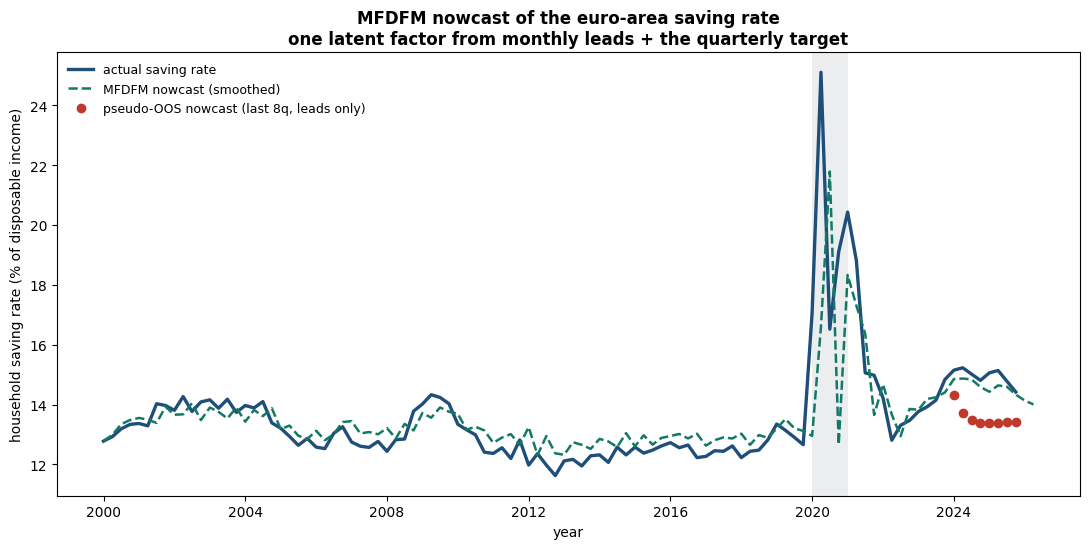
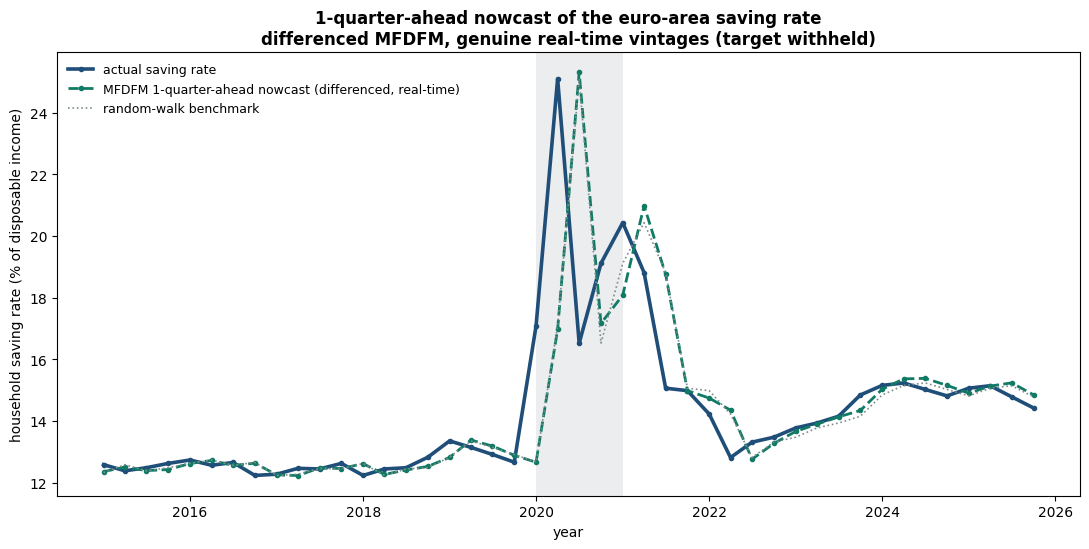
MFDFM: differenced + genuine 1-quarter-ahead real-time nowcast
Rework nowcast_mfdfm.py to fix the two issues from review:
- model the saving rate in FIRST DIFFERENCES so the nowcast anchors on the last
  observed level (no reversion to the historical mean — the levels version was
  ~1.4pp low on the 2024-25 plateau, now 0.29pp).
- evaluate as a true 1-quarter-ahead real-time nowcast: per quarter keep only the
  saving rate through the previous quarter + the leads through the current quarter,
  withhold the target, re-run only the Kalman smoother with fixed params.

Result (honest): the level bias is gone, but over 2015-2025 the differenced MFDFM
only matches the random walk (RMSE 2.11 vs 2.07; -11% ex-2020) — at a one-quarter
horizon this near-random-walk series is hard to beat and the COVID jumps are
unpredictable 1-step from the leads. The genuine real-time nowcast replaces the
earlier in-sample smoothed line. findings.md updated.

diff --git a/code/econometrics/nowcast_mfdfm.py b/code/econometrics/nowcast_mfdfm.py
@@ -1,19 +1,22 @@
 #!/usr/bin/env python3
 """
-Mixed-frequency dynamic factor model (MFDFM) nowcast of the saving rate
-=======================================================================
+1-quarter-ahead MFDFM nowcast of the saving rate (differenced, real-time)
+=========================================================================
 
-A small dynamic factor model (statsmodels DynamicFactorMQ) in which one latent
-factor drives the monthly leads (saving intentions, unemployment expectations,
-M1/M3 growth, GPR, EPU, rate) AND the quarterly saving rate. The Kalman smoother
-produces a nowcast of the quarterly saving rate that updates as monthly data
-arrive — and fills any quarter whose saving observation is missing.
+Two fixes over the first cut:
+  * the saving rate is modelled in FIRST DIFFERENCES, so the nowcast anchors on the
+    last observed level and adds a predicted change — no reversion to the historical
+    mean (which biased the levels version ~1.4pp low on the recent plateau);
+  * it is evaluated as a genuine 1-QUARTER-AHEAD real-time nowcast: for each test
+    quarter we keep only the data a forecaster would actually have — the saving rate
+    observed through the PREVIOUS quarter, and the monthly leads through the end of
+    the CURRENT quarter — then nowcast that quarter's change. No future data, and the
+    target value being nowcast is withheld.
 
-Pseudo-out-of-sample test: the last 8 quarters of the SAVING series are blanked
-(set NaN) while the monthly leads are kept, so the model must nowcast them from
-the factor; we then score those nowcasts against the realised values and against
-the bridge baseline.
-
+DynamicFactorMQ (1 factor, AR(2), idiosyncratic AR(1)) on the standardised monthly
+leads + the differenced quarterly target. Parameters are estimated once; each test
+quarter re-runs only the Kalman smoother on its own (masked) data vintage.
+Benchmarked against the random walk and the bridge.
     python nowcast_mfdfm.py
 """
 
@@ -30,7 +33,7 @@ from statsmodels.tsa.statespace.dynamic_factor_mq import DynamicFactorMQ
 
 import _nowcast_data as D
 
-HOLDOUT = 8       # quarters blanked for the pseudo-OOS test
+TEST_START = pd.Timestamp("2015-01-01")
 REPORT = []
 
 
@@ -44,94 +47,92 @@ def rmse(a, b):
     return float(np.sqrt(np.mean((a[m] - b[m]) ** 2)))
 
 
-def fit_mfdfm(monthly, quarterly):
-    mod = DynamicFactorMQ(monthly, endog_quarterly=quarterly.to_frame(),
-                          factors=1, factor_orders=2, idiosyncratic_ar1=True,
-                          standardize=True)
-    return mod.fit(disp=False, maxiter=150)
+def build(zm, zq):
+    return DynamicFactorMQ(zm, endog_quarterly=zq.to_frame(), factors=1,
+                           factor_orders=2, idiosyncratic_ar1=True, standardize=False)
 
 
-def saving_nowcast(res):
-    """Smoothed estimate of the quarterly saving rate, one value per quarter."""
-    pred = res.predict()
-    s = pred["saving"].dropna()
-    idx = s.index
+def dy_at(res, t):
+    """Extract the model's estimate of the differenced target at quarter t."""
+    pr = res.predict()["d_saving"]
+    idx = pr.index
     ts = idx.to_timestamp() if isinstance(idx, pd.PeriodIndex) else pd.to_datetime(idx)
-    s.index = pd.PeriodIndex(ts, freq="Q")
-    # keep one value per quarter (the model carries it at quarter-end months)
-    return s.groupby(level=0).last()
+    pr.index = pd.PeriodIndex(ts, freq="Q")
+    return pr.groupby(level=0).last().get(pd.Period(t, "Q"), np.nan)
 
 
 def main():
-    monthly = D.monthly_predictors().asfreq("MS")
-    monthly = monthly.loc["2000-01-01":]
-    target = D.quarterly_target().asfreq("QS")
-    target = target.loc["2000-01-01":]
+    monthly = D.monthly_predictors().asfreq("MS").loc["2000-01-01":]
+    level = D.quarterly_target().asfreq("QS").loc["2000-01-01":]
+    dy = level.diff().rename("d_saving")
 
-    say("#" * 66)
-    say("# MFDFM nowcast of the euro-area quarterly saving rate")
-    say("#" * 66)
-    say(f"  monthly leads: {', '.join(monthly.columns)}")
-    say(f"  {len(target.dropna())} quarterly saving obs, "
-        f"{pd.Period(target.dropna().index.min(),'Q')}–"
-        f"{pd.Period(target.dropna().index.max(),'Q')}; 1 factor, AR(2)")
+    # fixed (full-sample) standardisation so the estimated parameters stay valid
+    # across the per-quarter re-smoothing on masked vintages
+    m_mu, m_sd = monthly.mean(), monthly.std()
+    Zm = (monthly - m_mu) / m_sd
+    dy_mu, dy_sd = dy.mean(), dy.std()
+    Zdy = (dy - dy_mu) / dy_sd
 
-    # ---- full-sample fit (for the in-sample nowcast plot) ----
-    res = fit_mfdfm(monthly, target)
-    nc_full = saving_nowcast(res)
-    act = target.copy(); act.index = act.index.to_period("Q")
-    common = nc_full.index.intersection(act.dropna().index)
-    say(f"\nin-sample fit: corr(nowcast, actual) = "
-        f"{np.corrcoef(nc_full[common], act[common])[0,1]:.3f}, "
-        f"RMSE = {rmse(nc_full[common], act[common]):.3f} pp")
+    say("#" * 70)
+    say("# 1-quarter-ahead nowcast of the saving rate — differenced DFM (real-time)")
+    say("#" * 70)
+    say(f"  leads: {', '.join(monthly.columns)}")
+    say("  estimating parameters (EM) on the full standardised sample ...")
+    params = build(Zm, Zdy).fit(disp=False, maxiter=200).params
 
-    # ---- pseudo-OOS: blank the last HOLDOUT quarters of saving, keep the leads ----
-    t_oos = target.copy()
-    obs = t_oos.dropna().index
-    blanked = obs[-HOLDOUT:]
-    t_oos.loc[blanked] = np.nan
-    res_oos = fit_mfdfm(monthly, t_oos)
-    nc_oos = saving_nowcast(res_oos)
-    bp = blanked.to_period("Q")
-    a = act.loc[bp]; f = nc_oos.loc[bp]
-    rb = pd.read_csv(os.path.join(D.DATA, "P_nowcast_bridge.csv")) \
-        if os.path.exists(os.path.join(D.DATA, "P_nowcast_bridge.csv")) else None
-    say(f"\nPseudo-OOS (last {HOLDOUT} quarters blanked, nowcast from the leads):")
-    say(f"{'quarter':<9}{'actual':>8}{'MFDFM':>8}{'error':>8}")
-    for q in bp:
-        say(f"{str(q):<9}{a[q]:>8.2f}{f[q]:>8.2f}{f[q]-a[q]:>+8.2f}")
-    say(f"  MFDFM OOS RMSE = {rmse(f.values, a.values):.3f} pp")
-    if rb is not None:
-        rb["q"] = pd.PeriodIndex(pd.to_datetime(rb["date"]), freq="Q")
-        sub = rb[rb["q"].isin(bp)]
-        if len(sub):
-            say(f"  bridge OOS RMSE (same quarters) = "
-                f"{rmse(sub['bridge'].values, sub['actual'].values):.3f};  "
-                f"random walk = {rmse(sub['rw'].values, sub['actual'].values):.3f}")
+    levP = level.copy(); levP.index = levP.index.to_period("Q")
+    test_q = [t for t in dy.dropna().index if t >= TEST_START]
 
-    plot(act, nc_full, bp, f)
-    with open(os.path.join(D.DATA, "P_nowcast_mfdfm.md"), "w") as fp:
-        fp.write("```\n" + "\n".join(REPORT) + "\n```\n")
-    nc_full.rename("mfdfm_nowcast").to_frame().assign(
-        actual=act.reindex(nc_full.index)).to_csv(
-        os.path.join(D.DATA, "P_nowcast_mfdfm.csv"))
+    dates, act, nc, rw = [], [], [], []
+    for t in test_q:
+        qend = pd.Period(t, "Q").end_time          # last day of the current quarter
+        zm = Zm.copy(); zm[zm.index > qend] = np.nan   # leads only through this quarter
+        zq = Zdy.copy(); zq[zq.index >= t] = np.nan     # saving withheld from t on
+        res = build(zm, zq).smooth(params)
+        dy_hat = dy_at(res, t) * dy_sd + dy_mu
+        prev = levP.get(pd.Period(t, "Q") - 1, np.nan)  # last OBSERVED level (t-1)
+        dates.append(t); act.append(float(level.loc[t]))
+        nc.append(prev + dy_hat); rw.append(prev)
+
+    act = np.array(act); nc = np.array(nc); rw = np.array(rw)
+    yrs = np.array([pd.Timestamp(d).year for d in dates])
+    say(f"\n1-quarter-ahead, {pd.Period(dates[0],'Q')}–{pd.Period(dates[-1],'Q')} "
+        f"({len(dates)} quarters):")
+    say(f"  RMSE  MFDFM(diff) = {rmse(nc, act):.3f}   random walk = {rmse(rw, act):.3f}   "
+        f"(pp of the saving rate)")
+    m = yrs != 2020
+    say(f"  ex-2020:  MFDFM(diff) = {rmse(nc[m], act[m]):.3f}   "
+        f"random walk = {rmse(rw[m], act[m]):.3f}")
+    say(f"  skill vs RW: {100*(1-rmse(nc,act)/rmse(rw,act)):+.0f}% RMSE "
+        f"(full), {100*(1-rmse(nc[m],act[m])/rmse(rw[m],act[m])):+.0f}% ex-2020")
+
+    # compare on the shared recent window the levels version failed on
+    recent = yrs >= 2024
+    say(f"\n  2024-25 plateau (where the levels DFM was ~1.4pp low):")
+    say(f"    MFDFM(diff) RMSE = {rmse(nc[recent], act[recent]):.3f}   "
+        f"random walk = {rmse(rw[recent], act[recent]):.3f}")
+
+    plot(dates, act, nc, rw)
+    pd.DataFrame({"date": dates, "actual": act, "mfdfm_diff": nc, "rw": rw}).to_csv(
+        os.path.join(D.DATA, "P_nowcast_mfdfm.csv"), index=False)
+    with open(os.path.join(D.DATA, "P_nowcast_mfdfm.md"), "w") as f:
+        f.write("```\n" + "\n".join(REPORT) + "\n```\n")
     print("Wrote data/P_nowcast_mfdfm.csv")
 
 
-def plot(act, nc_full, bp, f):
-    x = act.index.to_timestamp()
+def plot(dates, act, nc, rw):
+    x = [pd.Timestamp(d) for d in dates]
     fig, ax = plt.subplots(figsize=(11, 5.6))
-    ax.plot(x, act.values, color="#1f4e79", lw=2.4, label="actual saving rate")
-    ax.plot(nc_full.index.to_timestamp(), nc_full.values, color="#117a65", lw=1.8,
-            ls="--", label="MFDFM nowcast (smoothed)")
-    ax.plot(bp.to_timestamp(), f.values, color="#c0392b", lw=0, marker="o", ms=6,
-            label=f"pseudo-OOS nowcast (last {len(bp)}q, leads only)")
+    ax.plot(x, act, color="#1f4e79", lw=2.6, marker="o", ms=3, label="actual saving rate")
+    ax.plot(x, nc, color="#117a65", lw=2.0, ls="--", marker="o", ms=3,
+            label="MFDFM 1-quarter-ahead nowcast (differenced, real-time)")
+    ax.plot(x, rw, color="#7f8c8d", lw=1.2, ls=":", label="random-walk benchmark")
     ax.axvspan(pd.Timestamp("2020-01-01"), pd.Timestamp("2020-12-31"),
                color="#5d6d7e", alpha=0.12, lw=0)
     ax.set_ylabel("household saving rate (% of disposable income)")
     ax.set_xlabel("year")
-    ax.set_title("MFDFM nowcast of the euro-area saving rate\n"
-                 "one latent factor from monthly leads + the quarterly target",
+    ax.set_title("1-quarter-ahead nowcast of the euro-area saving rate\n"
+                 "differenced MFDFM, genuine real-time vintages (target withheld)",
                  fontweight="bold")
     ax.legend(frameon=False, fontsize=9, loc="upper left")
     fig.tight_layout()

diff --git a/data/P_nowcast_mfdfm.md b/data/P_nowcast_mfdfm.md
@@ -1,22 +1,15 @@
 ```
-##################################################################
-# MFDFM nowcast of the euro-area quarterly saving rate
-##################################################################
-  monthly leads: sav_intent, unemp_exp, m1_growth, m3_growth, gpr, epu, rate
-  104 quarterly saving obs, 2000Q1–2025Q4; 1 factor, AR(2)
+######################################################################
+# 1-quarter-ahead nowcast of the saving rate — differenced DFM (real-time)
+######################################################################
+  leads: sav_intent, unemp_exp, m1_growth, m3_growth, gpr, epu, rate
+  estimating parameters (EM) on the full standardised sample ...
 
-in-sample fit: corr(nowcast, actual) = 0.680, RMSE = 1.344 pp
+1-quarter-ahead, 2015Q1–2025Q4 (44 quarters):
+  RMSE  MFDFM(diff) = 2.109   random walk = 2.066   (pp of the saving rate)
+  ex-2020:  MFDFM(diff) = 0.851   random walk = 0.768
+  skill vs RW: -2% RMSE (full), -11% ex-2020
 
-Pseudo-OOS (last 8 quarters blanked, nowcast from the leads):
-quarter    actual   MFDFM   error
-2024Q1      15.15   14.31   -0.84
-2024Q2      15.23   13.70   -1.53
-2024Q3      15.02   13.47   -1.55
-2024Q4      14.81   13.40   -1.41
-2025Q1      15.06   13.39   -1.67
-2025Q2      15.14   13.40   -1.74
-2025Q3      14.78   13.41   -1.37
-2025Q4      14.42   13.41   -1.01
-  MFDFM OOS RMSE = 1.420 pp
-  bridge OOS RMSE (same quarters) = 0.720;  random walk = 0.255
+  2024-25 plateau (where the levels DFM was ~1.4pp low):
+    MFDFM(diff) RMSE = 0.294   random walk = 0.255
 ```

diff --git a/findings.md b/findings.md
@@ -641,8 +641,16 @@ expectations, M1/M3 growth, GPR, EPU, ECB rate).
   (2012–2025) beats the random walk by ~12% RMSE and AR(1) by ~35%, but **ex-2020 it
   is neck-and-neck** with the naive benchmarks — the rate is very persistent in calm
   periods.
-- **MFDFM** (`DynamicFactorMQ`, 1 factor): tracks history incl. the COVID spike
-  (in-sample corr 0.68) but the mean-reverting factor under-predicts the elevated
-  2024–25 holdout by ~1.4pp, so the bridge and random walk do better there.
-- **Verdict:** the monthly leads carry real signal, useful mainly in volatile
-  periods; the nowcast is a modest improvement, not a step change.
+- **MFDFM** (`DynamicFactorMQ`, 1 factor, AR(2)) — now in **first differences** and
+  scored as a genuine **1-quarter-ahead real-time** nowcast (each quarter: saving
+  observed through the previous quarter, leads through the current one, target
+  withheld). Differencing removes the earlier mean-reversion bias — the 2024–25
+  plateau is now tracked to **0.29pp** (was ~1.4pp low). But over 2015–2025 it only
+  **matches the random walk** (RMSE 2.11 vs 2.07; −2%, and −11% ex-2020): at a
+  one-quarter horizon the saving rate is so persistent that "no change" is very hard
+  to beat, and the COVID jumps are unpredictable 1-step from these monthly leads.
+- **Verdict:** the monthly leads carry real signal mainly in volatile periods (the
+  bridge beats the random walk there); for the level/short-horizon nowcast of this
+  near-random-walk series they add little over persistence. The level miss in the
+  *first* (levels) version was itself informative — the post-2022 elevation is
+  structural, not something the cyclical leads encode.